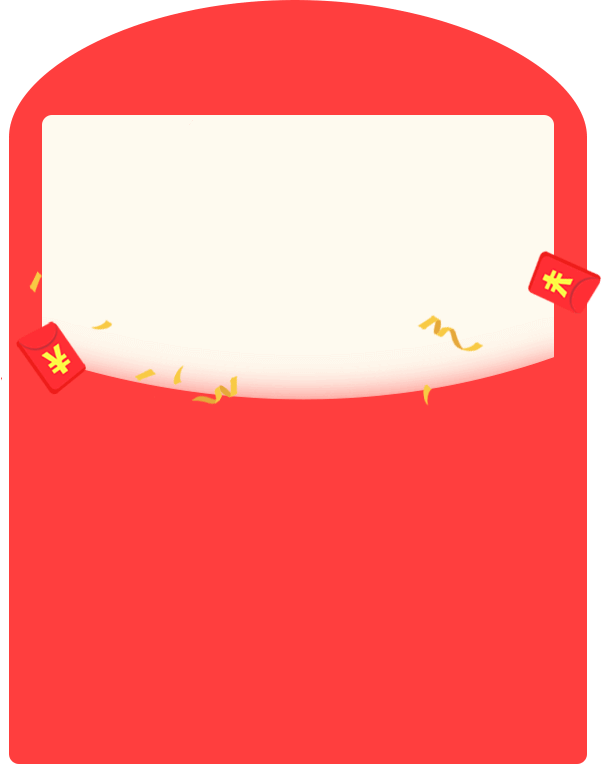
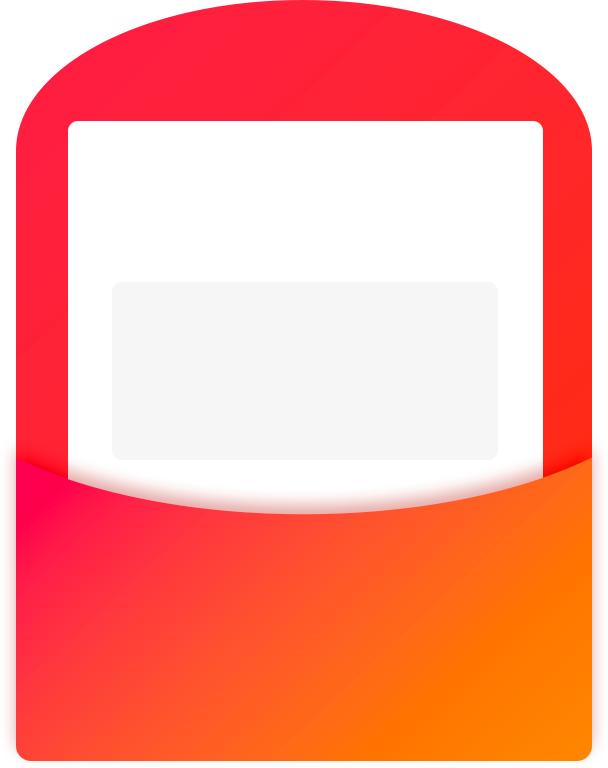
new popup design again

diff --git a/public/client/js/game-node.js b/public/client/js/game-node.js
@@ -891,47 +891,63 @@ function showWinModal(){
     switch (level) {
 
         case 1:
-            instruction = '第1局<span class="highlight-orange">猜对奖励10积分</span>，最终本轮赚了10积分。<br />赚到的10积分自动换成金币，可兑换红包。根据配赠式玩法，猜中后返回10积分开始押注。<br /><div class="highlight-link">>查看倍增式玩法说明<</div>';           
+            info = '前0局猜错<span class="highlight">亏损0积分</span><br />第1局猜对<span class="highlight-green">奖励10积分</span><br />最终奖励10积分，<span class="highlight-red">赢到了1元</span><br />满15元可兑换红包';
             image = '/client/images/progress-bar/10.png';
-            html += '<div class="modal-win-title">恭喜你猜对了</div><div class="modal-result">+10积分</div>';
+            html += '<span class="packet-sign">+</span>1<span class="packet-currency">元</span>';
+            remain = 15 - (g_previous_point/10) - 1;
+            instructions = '您已赢到1元，';
         break;
 
         case 2:
-            instruction = '前1局猜错<span class="highlight-green">亏损了10积分</span>，而第2局<span class="highlight-orange">猜对奖励30积分</span>，最终<span class="highlight-orange">还赚了20积分</span>。<br />赚到的20积分自动换成金币，可兑换红包。根据配赠式玩法，猜中后返回10积分开始押注。<br><div class="highlight-link">>查看倍增式玩法说明<</div>';
+            info = '前1局猜错<span class="highlight">亏损10积分</span><br />第2局猜对<span class="highlight-green">奖励30积分</span><br />最终奖励20积分，<span class="highlight-red">赢到了2元</span><br />满15元可兑换红包';
             image = '/client/images/progress-bar/30.png';
-            html += '<div class="modal-win-title">恭喜你猜对了</div><div class="modal-result">+30积分</div>';            
+            html += '<span class="packet-sign">+</span>2<span class="packet-currency">元</span>';
+            remain = 15 - (g_previous_point/10) - 2;
+            instructions = '您已赢到2元，';        
         break;
 
         case 3:
-            instruction = '前2局猜错<span class="highlight-green">亏损了40积分</span>，而第3局<span class="highlight-orange">猜对奖励70积分</span>，最终<span class="highlight-orange">还赚了30积分</span>。<br />赚到的30积分自动换成金币，可兑换红包。根据配赠式玩法，猜中后返回10积分开始押注。<br><div class="highlight-link">>查看倍增式玩法说明<</div>';
+            info = '前2局猜错<span class="highlight">亏损40积分</span><br />第3局猜对<span class="highlight-green">奖励70积分</span><br />最终奖励30积分，<span class="highlight-red">赢到了3元</span><br />满15元可兑换红包';
             image = '/client/images/progress-bar/70.png';
-            html += '<div class="modal-win-title">恭喜你猜对了</div><div class="modal-result">+70积分</div>';
+            html += '<span class="packet-sign">+</span>3<span class="packet-currency">元</span>';
+            remain = 15 - (g_previous_point/10) - 3;
+            instructions = '您已赢到3元，';
         break;
 
         case 4:
-            instruction = '前3局猜错<span class="highlight-green">亏损了110积分</span>，而第4局<span class="highlight-orange">猜对奖励150积分</span>，最终<span class="highlight-orange">还赚了40积分</span>。<br />赚到的40积分自动换成金币，可兑换红包。根据配赠式玩法，猜中后返回10积分开始押注。<br><div class="highlight-link">>查看倍增式玩法说明<</div>';
+            info = '前3局猜错<span class="highlight">亏损110积分</span><br />第4局猜对<span class="highlight-green">奖励150积分</span><br />最终奖励40积分，<span class="highlight-red">赢到了4元</span><br />满15元可兑换红包';
             image = '/client/images/progress-bar/150.png';
-            html += '<div class="modal-win-title">恭喜你猜对了</div><div class="modal-result">+150积分</div>';
+            html += '<span class="packet-sign">+</span>4<span class="packet-currency">元</span>';
+            remain = 15 - (g_previous_point/10) - 4;
+            instructions = '您已赢到4元，';
         break;
 
         case 5:
-            instruction = '前4局猜错<span class="highlight-green">亏损了260积分</span>，而第5局<span class="highlight-orange">猜对奖励310积分</span>，最终<span class="highlight-orange">还赚了50积分</span>。<br />赚到的50积分自动换成金币，可兑换红包。根据配赠式玩法，猜中后返回10积分开始押注。<br><div class="highlight-link">>查看倍增式玩法说明<</div>';
+            info = '前4局猜错<span class="highlight">亏损26积分</span><br />第5局猜对<span class="highlight-green">奖励310积分</span><br />最终奖励50积分，<span class="highlight-red">赢到了5元</span><br />满15元可兑换红包';
             image = '/client/images/progress-bar/310.png';
-            html += '<div class="modal-win-title">恭喜你猜对了</div><div class="modal-result">+310积分</div>';
+            html += '<span class="packet-sign">+</span>5<span class="packet-currency">元</span>';
+            remain = 15 - (g_previous_point/10) - 5;
+            instructions = '您已赢到5元，';
         break;
 
         case 6:
-            instruction = '前5局猜错<span class="highlight-green">亏损了570积分</span>，而第6局<span class="highlight-orange">猜对奖励630积分</span>，最终<span class="highlight-orange">还赚了60积分</span>。<br />赚到的60积分自动换成金币，可兑换红包。根据配赠式玩法，猜中后返回10积分开始押注。<br><div class="highlight-link">>查看倍增式玩法说明<</div>';
+            info = '前5局猜错<span class="highlight">亏损570积分</span><br />第6局猜对<span class="highlight-green">奖励630积分</span><br />最终奖励60积分，<span class="highlight-red">赢到了6元</span><br />满15元可兑换红包';
             image = '/client/images/progress-bar/630.png';
-            html += '<div class="modal-win-title">恭喜你猜对了</div><div class="modal-result">+630积分</div>';            
+            html += '<span class="packet-sign">+</span>6<span class="packet-currency">元</span>';
+            remain = 15 - (g_previous_point/10) - 6;
+            instructions = '您已赢到6元，';
         break;
 
     }
 
+    if(remain < 0){
+        remain = 0;
+    }
+
     $('.modal-progress-bar').attr("src", image);
-    $('.modal-win-header').html(html);
-    $('.modal-instruction').html(instruction);
-    $('.modal-redeem-button').html('领取奖励');
+    $('.packet-value').html(html);
+    $('.packet-info').html(info);
+    $('.instructions').html(instructions+'还差'+remain+'元可兑换');
     
     $('.highlight-link').click(function(){
         $('#game-rules').modal();
@@ -999,7 +1015,6 @@ function showLoseModal(){
     $('.modal-progress-bar').attr("src", image);
     $('.modal-win-header').html(html);
     $('.modal-instruction').html(instruction);
-    $('.modal-redeem-button').html('知道了');
     
     $('.highlight-link').click(function(){
         $('#game-rules').modal();

diff --git a/public/client/css/game-node.css b/public/client/css/game-node.css
@@ -645,7 +645,7 @@ body{
 }
 
 .packet-title {
-	color: #3f9e06;
+	color: #ffcccc;
 	font-size: 50px;
 	font-weight: 700;
 	margin-top: 50px;
@@ -1866,21 +1866,27 @@ if it's not present, don't show loader */
 }
 
 #red-packet-modal .packet-value {
-	font-size: 90px;
-	color: #ff3e3e;
+	font-size: 60px;
+	color: #ff414b;
 	font-weight: 500;
-	margin-left: -20px;
-	height: 100px;
+	height: 95px;
 }
 
 #red-packet-modal .packet-info {
-	font-size: 14px;
+	font-size: 11px;
 	font-weight: 500;
-	color: #ff3e3e;
+	color: #999;
+	text-align: left;
+	line-height: 18px;
+	padding-left: 50px;
 }
 
 #red-packet-modal .packet-sign {
-	font-size: 33px;
+	font-size: 35px;
+}
+
+#red-packet-modal .packet-currency {
+	font-size: 20px;
 }
 
 #red-packet-modal .modal-content {
@@ -1914,38 +1920,28 @@ if it's not present, don't show loader */
 #red-packet-modal .instructions {
   font-size: 12px;
   font-weight: 500;
-  color: #ffffff;
+  color: #ffe0d2;
   text-align: center;
   line-height: 28px;
-  padding: 25px 0px 5px 0px;
-}
-
-#red-packet-modal .instructions img{
-  margin-top: -2px;
+  padding-top: 40px;
 }
 
 #red-packet-modal .highlight {
-  color: #ffe613;
-  font-weight: 700;
+  color: #333;
 }
 
-#red-packet-modal .instructions h2{
-  color: #ffffff;
-  font-size: 16px;
-  text-align: center;
-  padding-bottom: 10px;
-  font-weight: 700;
+#red-packet-modal .highlight-red {
+	font-weight: 700;
 }
 
 #red-packet-modal .btn-red-packet {
   background: url('/client/images/btn-red-packet.png') no-repeat top center;
   font-size: 18px;
-  color: #ff3e3e;
+  color: #b95d0c;
   background-size: contain;
   width: 250px;
-  height: 40px;
-  padding-top: 6px;
-  margin-top: 10px;
+  height: 76px;
+  padding-top: 16px;
   cursor: pointer;
   text-align: center;
   font-weight: 500;
@@ -1978,6 +1974,103 @@ if it's not present, don't show loader */
     font-size:3em;
 }
 /* Red Packet Modal */
+
+/* Win Modal */
+#win-modal .packet-title {
+	padding-top: 20px;
+	color: #ffffff;
+	font-size: 16px;
+	font-weight: 500;
+}
+
+#win-modal .modal-card {
+    width: 260px;
+    margin: 0 auto;
+    font-size: 16px;
+}
+
+#win-modal .packet-value {
+	font-size: 60px;
+	color: #ff414b;
+	font-weight: 500;
+	height: 95px;
+}
+
+#win-modal .packet-info {
+	font-size: 11px;
+	font-weight: 500;
+	color: #999;
+	text-align: left;
+	line-height: 18px;
+	padding-left: 50px;
+}
+
+#win-modal .packet-sign {
+	font-size: 35px;
+}
+
+#win-modal .packet-currency {
+	font-size: 20px;
+}
+
+#win-modal .modal-content {
+  background: url('/client/images/packet-background.png') no-repeat;
+  background-size: contain;
+  color: white;
+  text-align: center;
+  border-top-left-radius: 6px;
+  border-top-right-radius: 6px;
+  padding: 10px;
+  font-weight: 700;
+  width: 301px !important;
+  height: 382px;
+  padding: 0;
+  position:relative;
+  -webkit-box-shadow: none;
+  -moz-box-shadow: none;
+  box-shadow: none;
+  border: none;
+}
+
+#win-modal .modal-content {
+  margin-top: -12px;
+  border-top-left-radius: 0;
+  border-top-right-radius: 0;
+  width: 296px;
+  z-index: 9999;
+  position:relative;
+}
+
+#win-modal .instructions {
+  font-size: 12px;
+  font-weight: 500;
+  color: #ffe0d2;
+  text-align: center;
+  line-height: 28px;
+  padding-top: 40px;
+}
+
+#win-modal .highlight {
+  color: #333;
+}
+
+#win-modal .highlight-red {
+	font-weight: 700;
+}
+
+#win-modal .btn-red-packet {
+  background: url('/client/images/btn-red-packet.png') no-repeat top center;
+  font-size: 18px;
+  color: #b95d0c;
+  background-size: contain;
+  width: 250px;
+  height: 76px;
+  padding-top: 16px;
+  cursor: pointer;
+  text-align: center;
+  font-weight: 500;
+}
+/* Win Modal */
 
 .btn-redeemcash {
 	position: absolute;

diff --git a/resources/views/staradmin/client/game-node.blade.php b/resources/views/staradmin/client/game-node.blade.php
@@ -796,22 +796,20 @@
 
 	<div class="modal fade col-md-12" id="win-modal" tabindex="-1" role="dialog" aria-labelledby="viewvouchermodellabel" aria-hidden="true" style="background-color: rgba(17, 17, 17, 0.65);">
 		<div class="modal-dialog modal-lg" role="document">
-			<div class="modal-title modal-win-header">
-				<div class="modal-win-title">恭喜你猜对了</div>
-				<div class="modal-result">+10</div>			
-			</div>
-
 			<div class="modal-content">
-				<img class="separator" src="{{ asset('/client/images/progress-bar/separator.png') }}" width="300" height="13" />
-				<div class="modal-body">				
+				<div class="packet-title">恭喜您猜对了</div>
+				<div class="modal-body" style="padding:10px !important;">
 					<div class="modal-row">
-						<div class="wrapper modal-full-height">
+						<div class="wrapper modal-full-height">							
 							<div class="modal-card">
-								<div class="modal-instruction">每一轮有6次机会，前2次猜错亏损40金币，第3次猜对奖励70金币，最终赚了30金币。<br />
-								猜对后满血复活，进入下一轮从新开始。</div>
-								<div class="close-win-modal modal-redeem-button">
-									领取奖励
-								</div>												
+								<div class="packet-value"><span class="packet-sign">+</span>6<span class="packet-currency">元</span></div>
+								<div class="packet-info">前5局猜错<span class="highlight">亏损570积分</span><br />第6局猜对<span class="highlight-green">奖励630积分</span><br />最终奖励60积分，<span class="highlight-red">赢到了6元</span><br />满15元可兑换红包</div>
+								<div class="instructions">
+									您已赢到6元，还差9元可兑换
+								</div>
+								<div class="close-win-modal modal-redeem-button btn-red-packet">
+									确认领取
+								</div>
 							</div>
 						</div>
 					</div>							
@@ -854,20 +852,18 @@
 	<div class="modal fade col-md-12" id="red-packet-modal" tabindex="-1" role="dialog" aria-labelledby="viewvouchermodellabel" aria-hidden="true" style="background-color: rgba(17, 17, 17, 0.65);">
 		<div class="modal-dialog modal-lg" role="document">
 			<div class="modal-content">
-				<div class="packet-title">恭喜你获得免单红包</div>
+				<div class="packet-title">恭喜您猜对了</div>
 				<div class="modal-body" style="padding:10px !important;">
 					<div class="modal-row">
 						<div class="wrapper modal-full-height">							
 							<div class="modal-card">
-								<div class="packet-value"><span class="packet-sign">￥</span>45</div>
-								<div class="packet-info">可提现支付宝</div>
+								<div class="packet-value"><span class="packet-sign">+</span>6<span class="packet-currency">元</span></div>
+								<div class="packet-info">前5局猜错<span class="highlight">亏损570积分</span><br />第6局猜对<span class="highlight-green">奖励630积分</span><br />最终奖励60积分，<span class="highlight-red">赢到了6元</span><br />满15元可兑换红包</div>
 								<div class="instructions">
-									<h1 class="divider">领取方式</h1>
-									注册后，进入 <img src="{{ asset('/client/images/small-life.png') }}" width="20" height="20" /> <span class="highlight">{{env('game_name', '幸运转盘')}}</span> 赚金币换领取<br />
-									新人免费玩3次 可赚45元
+									您已赢到6元，还差9元可兑换
 								</div>
 								<a href="/member/login/register">
-									<div class="btn-red-packet">注册</div>
+									<div class="btn-red-packet">确认领取</div>
 								</a>
 							</div>
 						</div>
